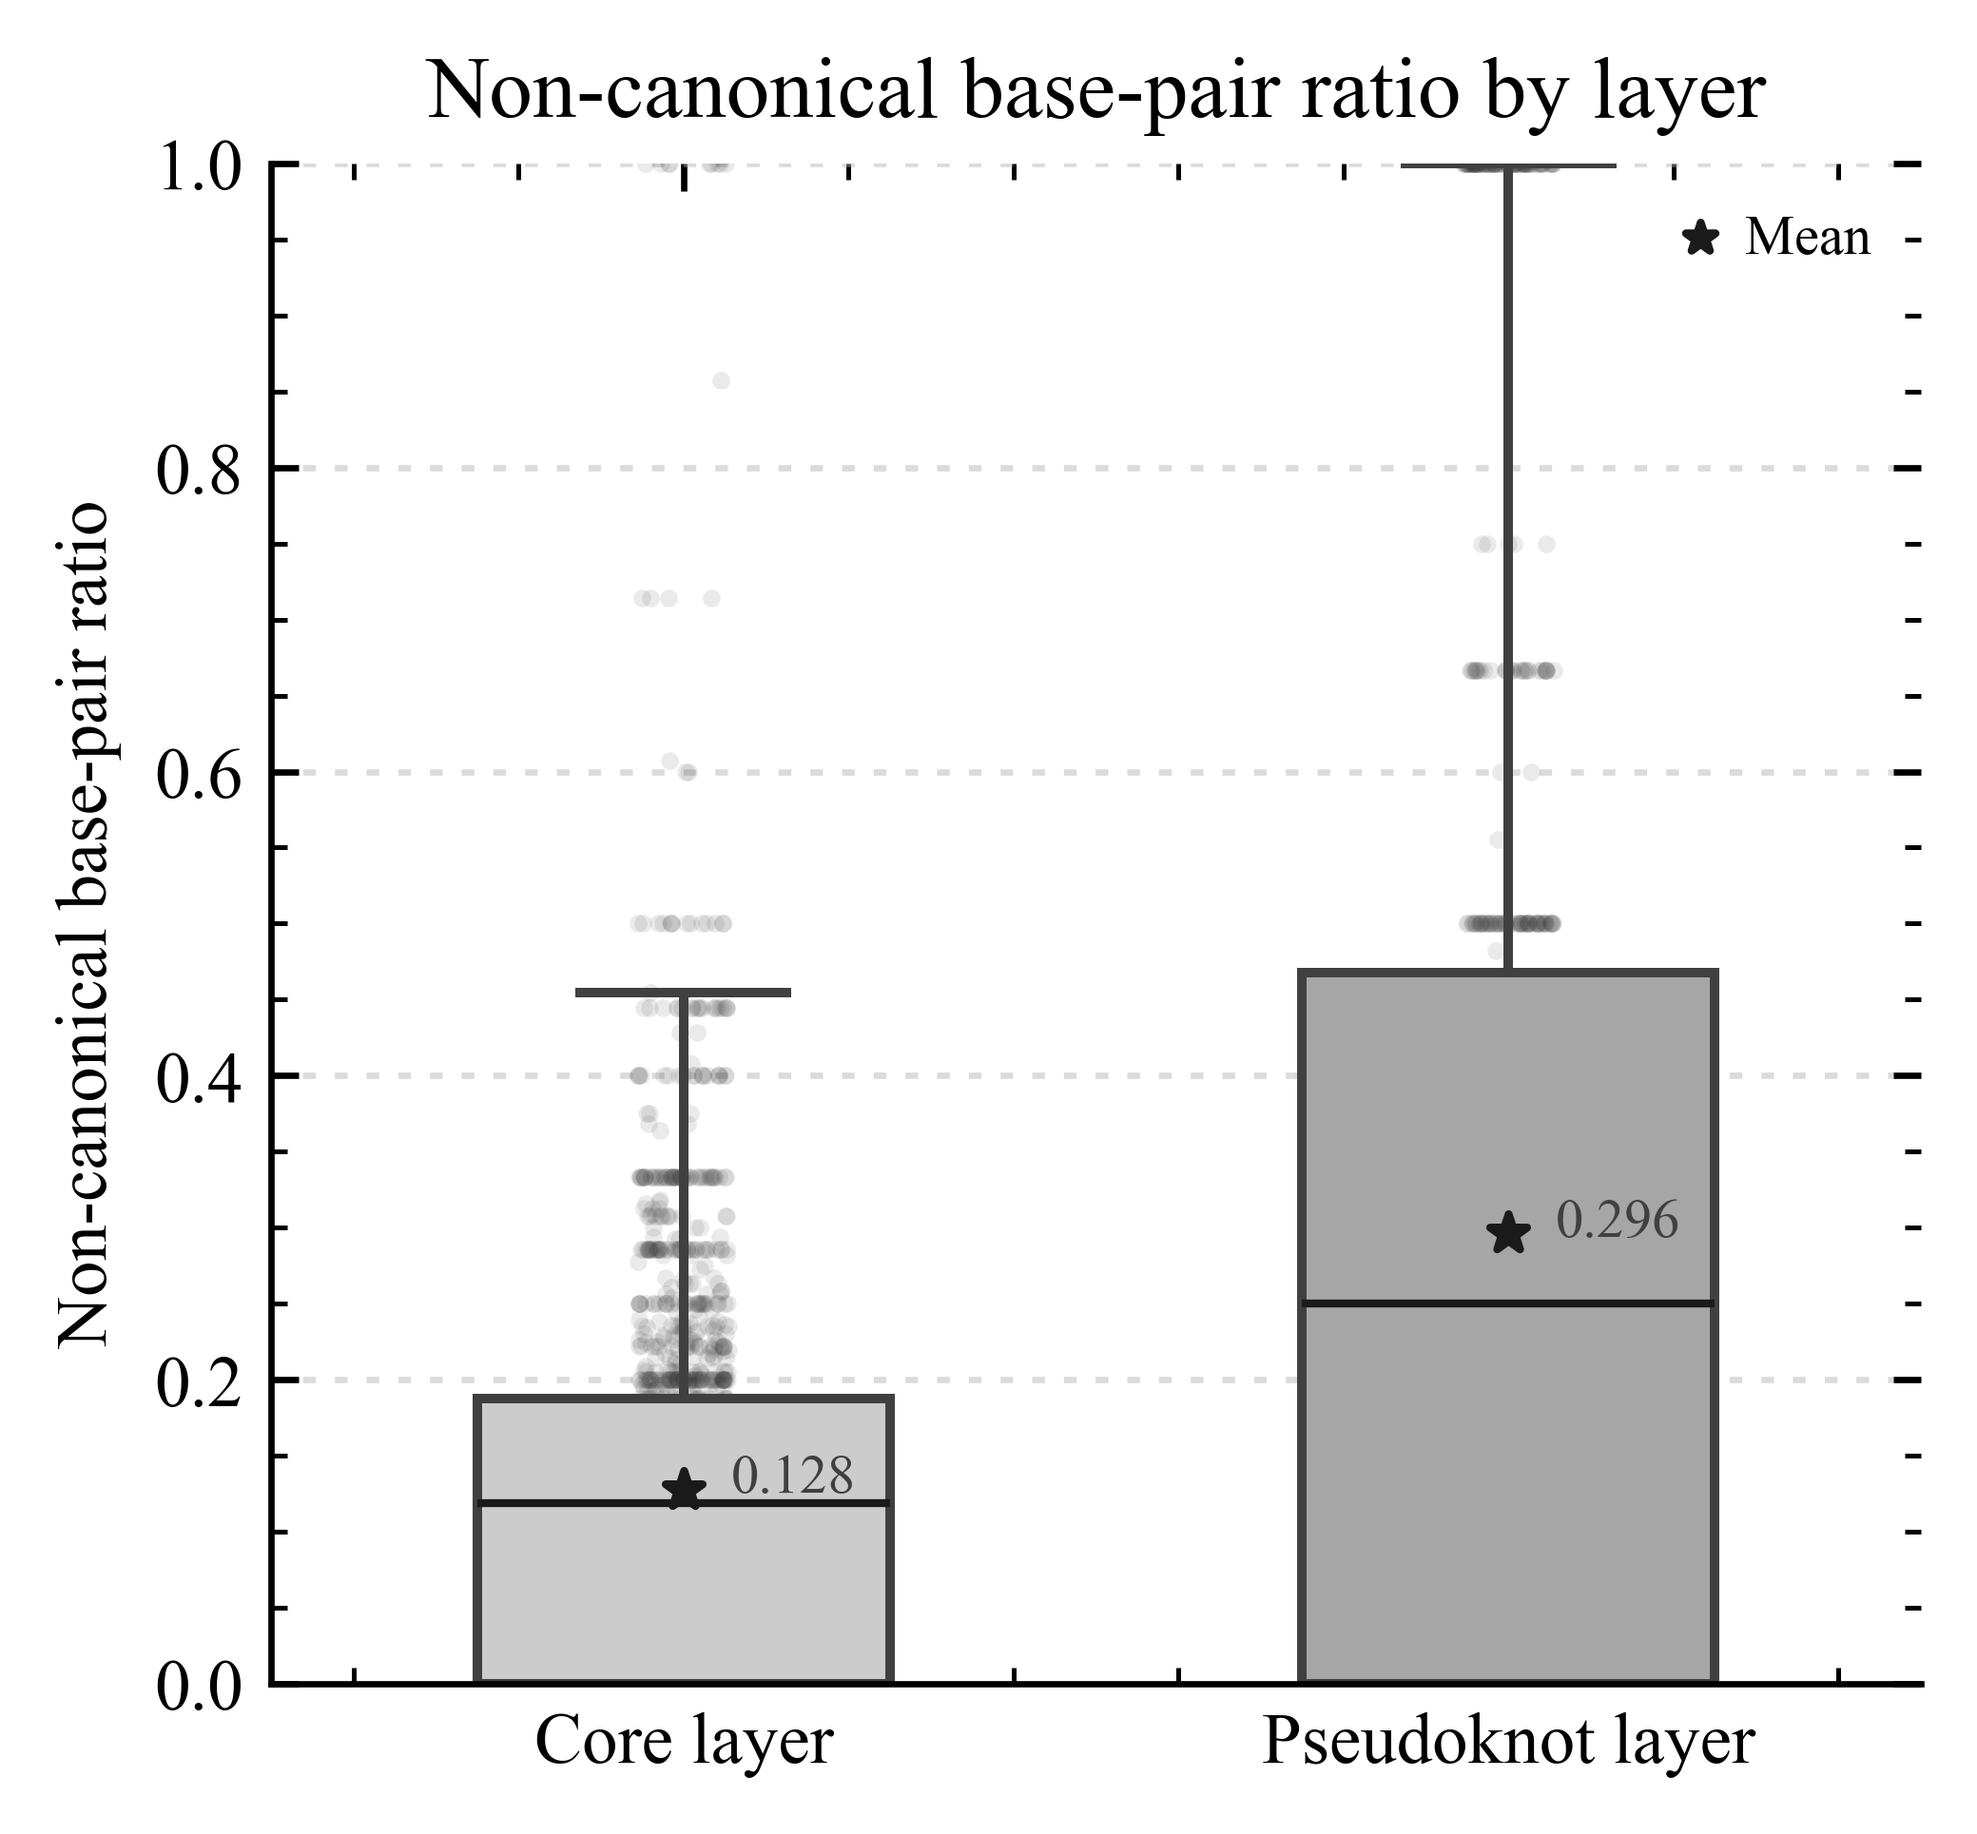
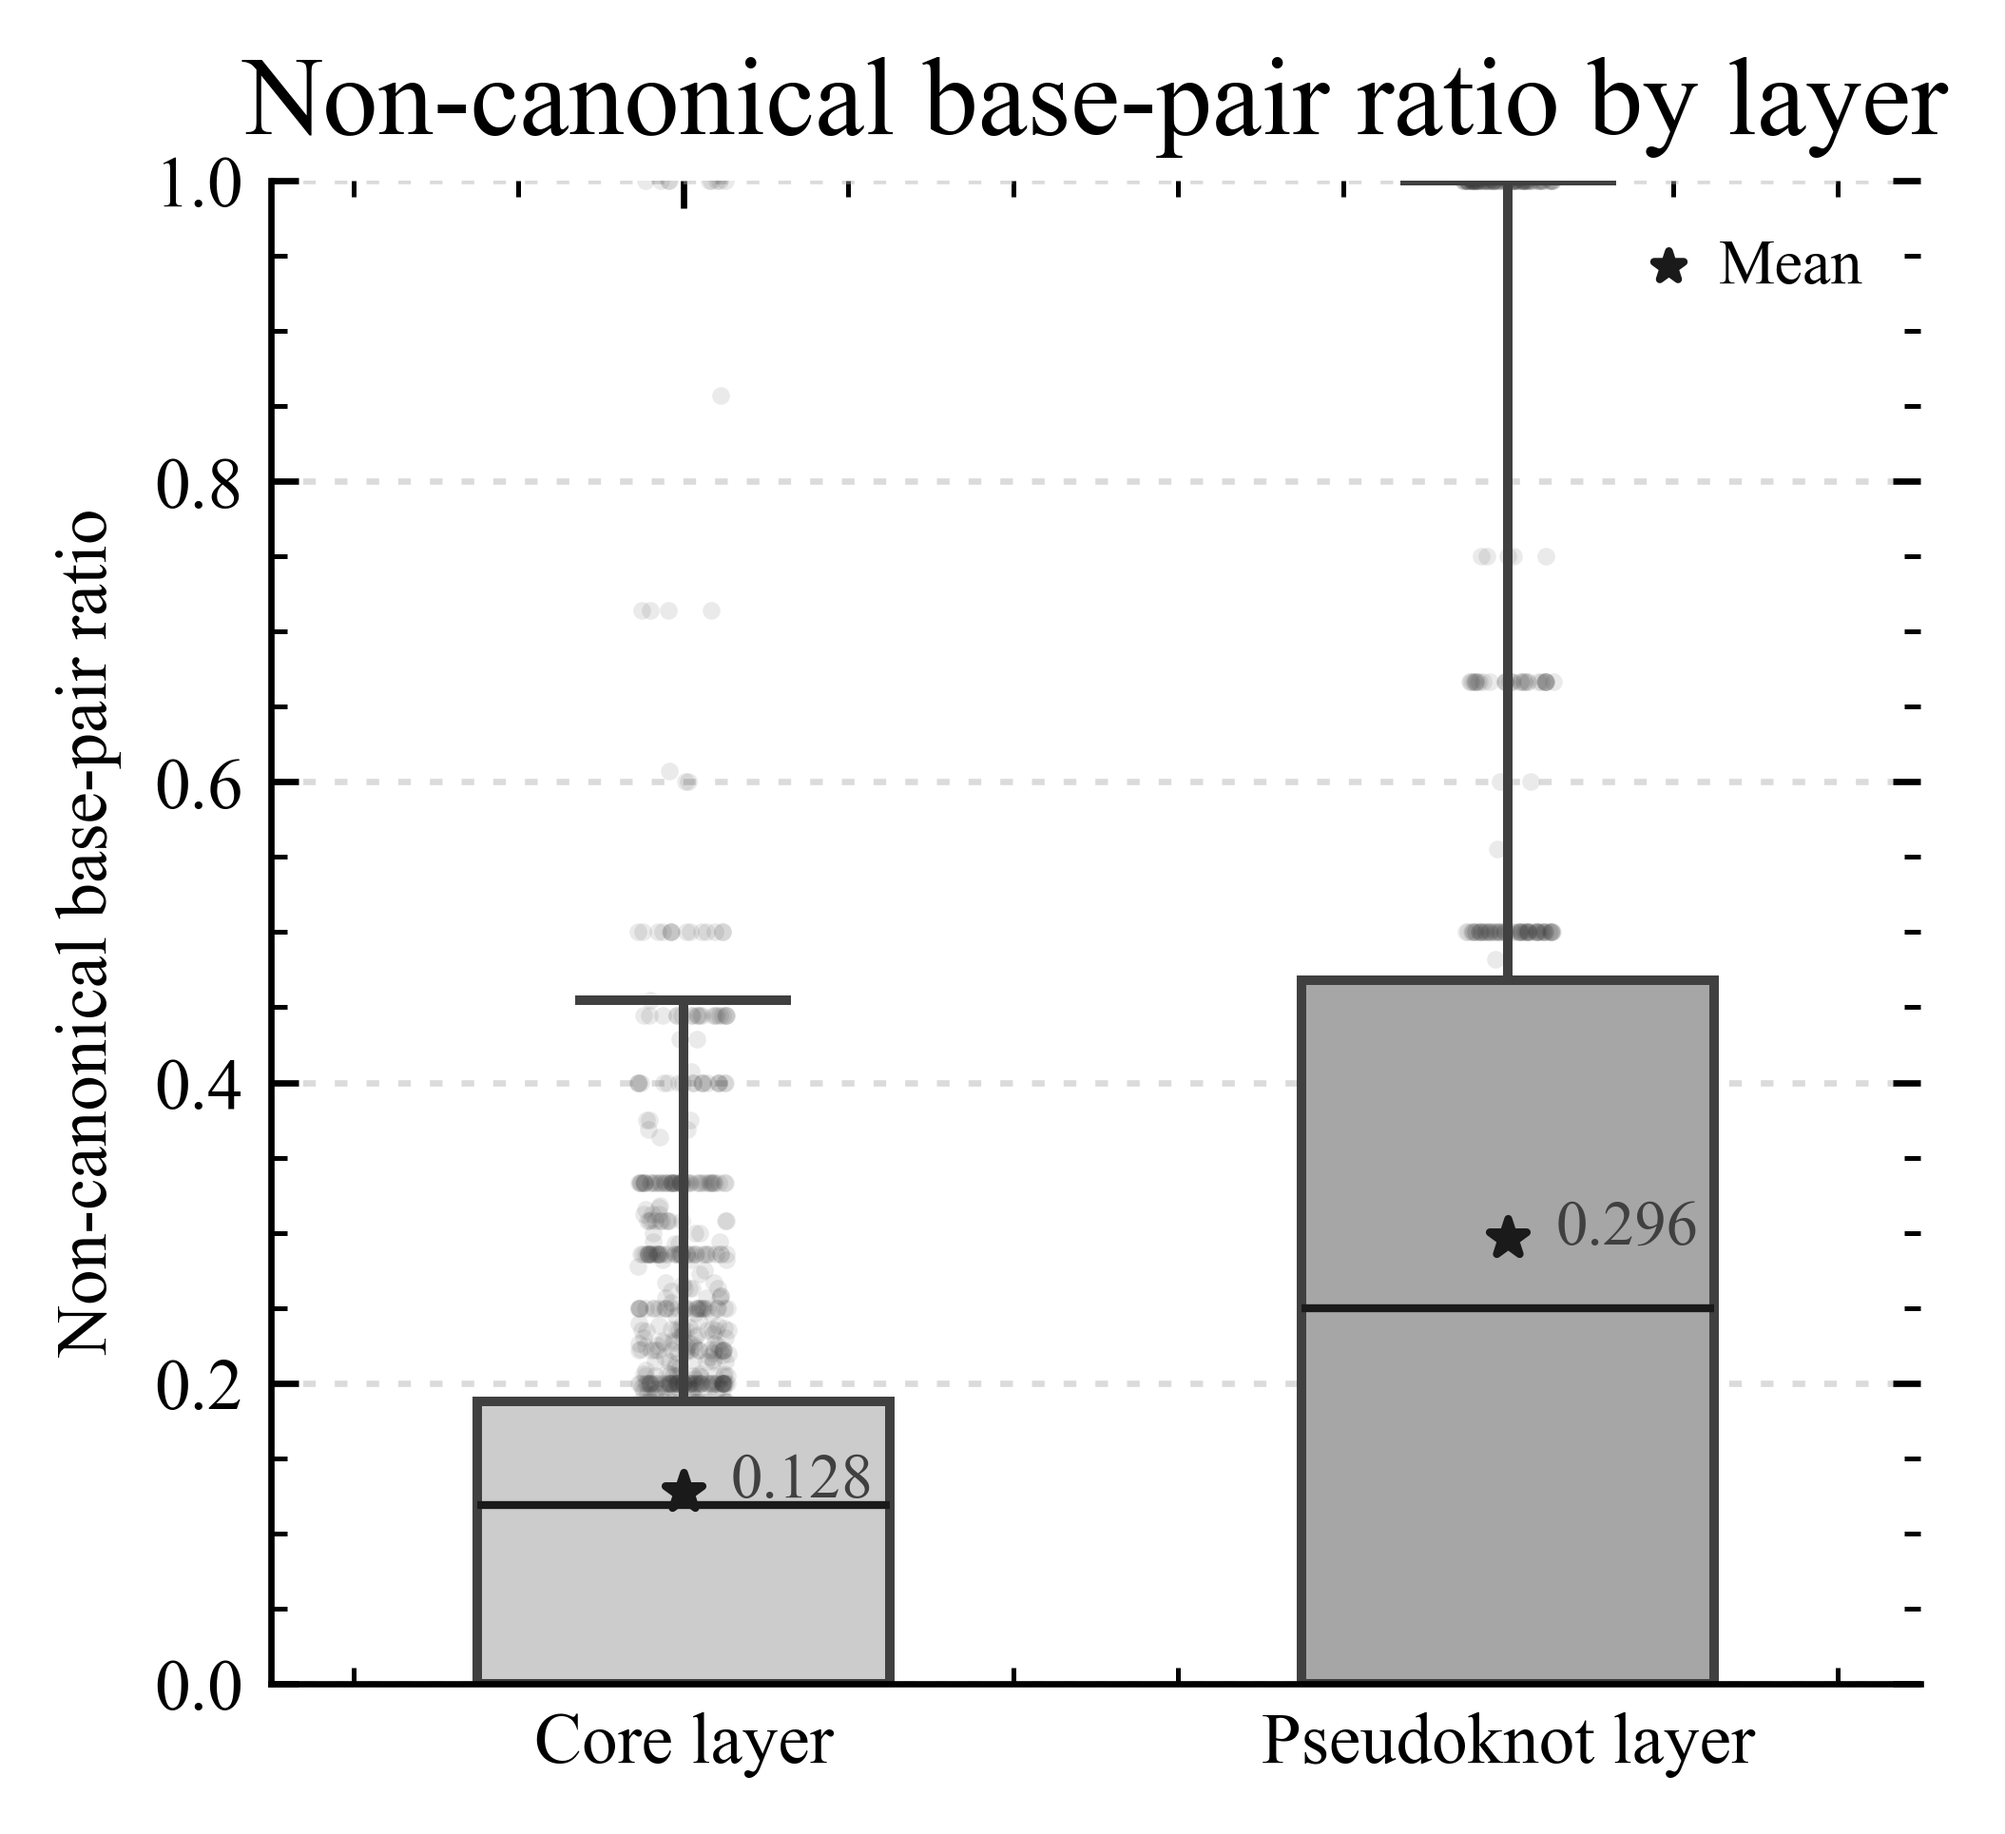
再度グラフを作り直した

diff --git a/analysis/pseudoknotlayer_plotting.py b/analysis/pseudoknotlayer_plotting.py
@@ -39,7 +39,7 @@ setup_fonts()
 # matplotlib configs
 #フォント設定
 #plt.rcParams['mathtext.fontset'] = 'stix' # math fontの設定
-plt.rcParams["font.size"] = 15 # 全体のフォントサイズが変更されます。
+plt.rcParams["font.size"] = 18 # 全体のフォントサイズが変更されます。
 #plt.rcParams['xtick.labelsize'] = 9 # 軸だけ変更されます。
 #plt.rcParams['ytick.labelsize'] = 24 # 軸だけ変更されます
 
@@ -191,13 +191,13 @@ def plot_non_canonical_ratio_box(
             y = min(m + epsilon, y1 - pad_y)  # 文字が上端をはみ出さないように
             ax.annotate(f"{m:.3f}", (i, y),
                         xytext=(6, 0), textcoords="offset points",  # 右に6ptずらす
-                        ha='left', va='center', fontsize=7, color='0.25')
+                        ha='left', va='center', fontsize=8, color='0.25')
 
         # 凡例（マーカーだけ小さめに）
         ax.legend(handles=[sc],
                   markerscale=0.8, scatterpoints=1,
                   handlelength=0.8, handletextpad=0.4,
-                  frameon=False, fontsize=7)
+                  frameon=False, fontsize=8)
 
     # ジッター散布（超薄）
     rng = np.random.default_rng(seed)
@@ -213,7 +213,7 @@ def plot_non_canonical_ratio_box(
     ax.set_ylabel('Non-canonical base-pair ratio')
     ax.yaxis.set_major_locator(MultipleLocator(0.2))
     ax.yaxis.set_major_formatter(FormatStrFormatter('%.1f'))
-    ax.set_title('Non-canonical base-pair ratio by layer', fontsize=11, pad=6)
+    ax.set_title('Non-canonical base-pair ratio by layer', fontsize=14, pad=6)
 
     # ---- y上端と統計注記（必要なときのみ） ----
     y_upper = 1.0
@@ -231,7 +231,7 @@ def plot_non_canonical_ratio_box(
             ax.plot([1, 1, 2, 2], [y_top - 0.015, y_top, y_top, y_top - 0.015],
                     c='0.2', lw=1)
             ax.text(1.5, y_top + 0.004, f"MWU p={p:.2e}, δ={delta:.3f}",
-                    ha='center', va='bottom', fontsize=9)
+                    ha='center', va='bottom', fontsize=12)
     else:
         ax.set_ylim(0, y_upper)
 
@@ -382,7 +382,8 @@ def main():
                             autopct='%1.1f%%',
                             startangle=90
                         )
-                        plt.title(f'{title} {parser} {"Multilayer" if multilayer else "Single-layer"} ')
+                        parser_text = "DSSR" if parser == "dssr" else "RNAView"
+                        plt.title(f'{title} {parser_text} {"Multilayer" if multilayer else "Single-layer"} ')
                         plt.ylabel('')
                         plt.tight_layout()
                         fn = f'pie_{title}{"multilayer" if multilayer else "including_singlelayer"}_{variant}.png'
@@ -410,23 +411,24 @@ def main():
             ax.spines['right'].set_visible(False)
             ax.tick_params(which='both', top=False, right=False)
             ax.minorticks_off()  # minor を完全にオフ
-            ax.set_xlabel('Pseudoknot Layer Count', fontsize=13)
+            ax.set_xlabel('Pseudoknot Order (number of layers)', fontsize=16)
             ax.set_xticks([int(x) for x in range(freq.index.max())])
-            ax.set_xticklabels([int(x) for x in (range(freq.index.max()))], rotation=0 , fontsize=12)
-            ax.tick_params(axis='y', labelsize=12)
+            ax.set_xticklabels([int(x) for x in (range(1, freq.index.max()+1))], rotation=0 , fontsize=15)
+            ax.tick_params(axis='y', labelsize=15)
             ax.set_xlim(-0.6, freq.index.max()+0.3)
-            plt.ylabel('Frequency', fontsize=13)
+            plt.ylabel('Frequency', fontsize=16)
             # 累積度数ライン（同じ y 軸: 正規化なので 0→1）
             ax.plot(cumulative.index - 1, cumulative.values, color='gray', marker='o', linewidth=1.2, markersize=5, label='Cumulative', linestyle='--')
             # 各累積点に軽く値を表示（上から重ねて）
             for x, y in zip(cumulative.index, cumulative.values):
-                ax.text(x - 1, y + 0.02, f"{y:.3f}", ha='center', va='bottom', fontsize=8, color='black')
+                ax.text(x - 1, y + 0.02, f"{y:.3f}", ha='center', va='bottom', fontsize=11, color='black')
             # y の表示領域（最大 1 を超えないように）
             cum_max = float(cumulative.max()) if len(cumulative) else 0.0
             top = max(0.7, cum_max)
             ax.set_ylim(0, min(1.05, top + 0.08))
-            plt.title(f'{parser} Pseudoknot Layers ({variant})', fontsize=15)
-            ax.legend(frameon=False, fontsize=9, loc='upper left', markerscale=1.0)
+            parser_text = "DSSR" if parser == "dssr" else "RNAView"
+            plt.title(f'{parser_text} Pseudoknot Order ({variant.replace("_", " ")})', fontsize=18)
+            ax.legend(frameon=False, fontsize=12, loc='lower right', markerscale=1.0)
             plt.tight_layout()
             fn = f'bar_pseudoknot_layers_{variant}.png'
             plt.savefig(os.path.join(output_dir, parser, fn))
